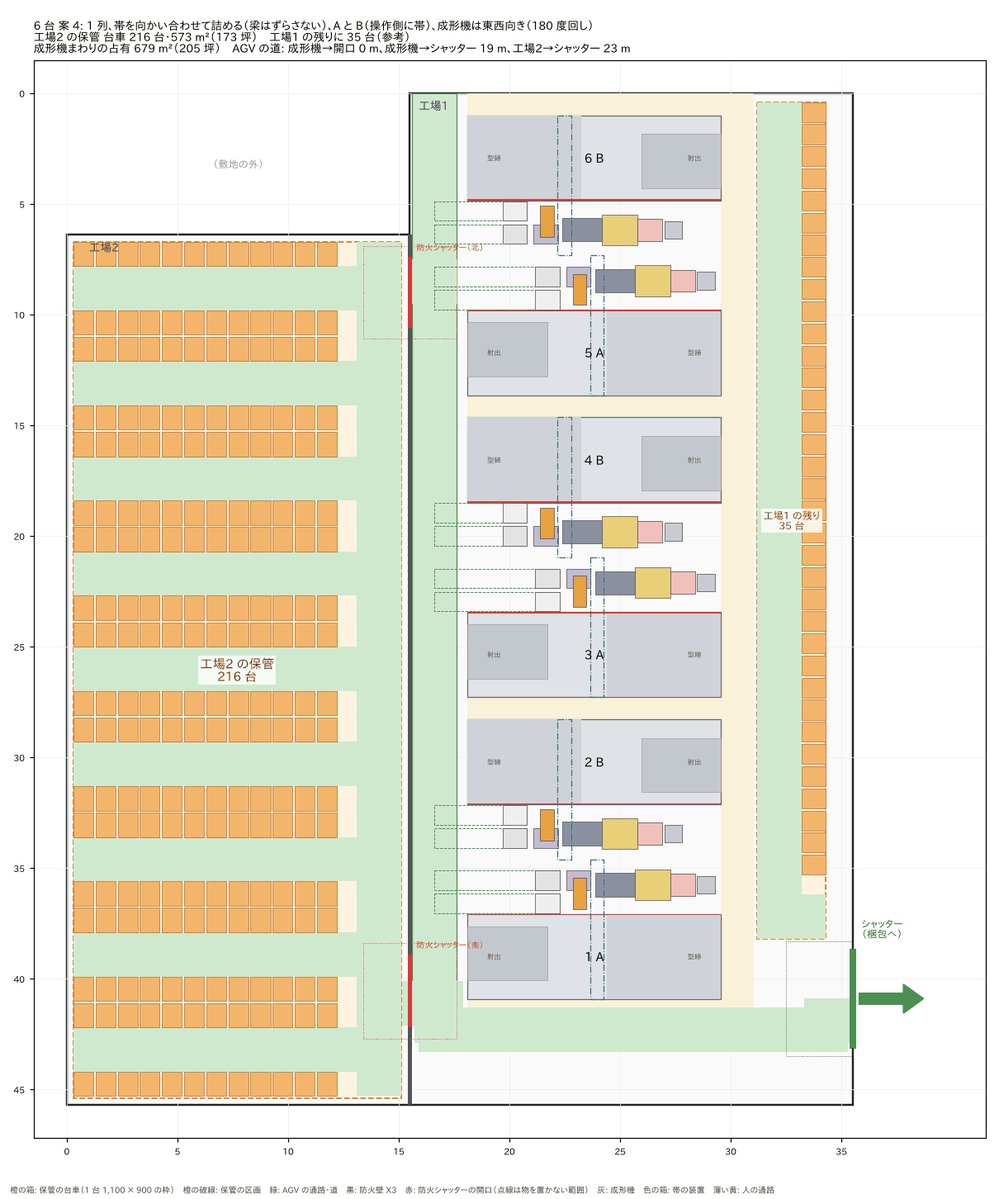
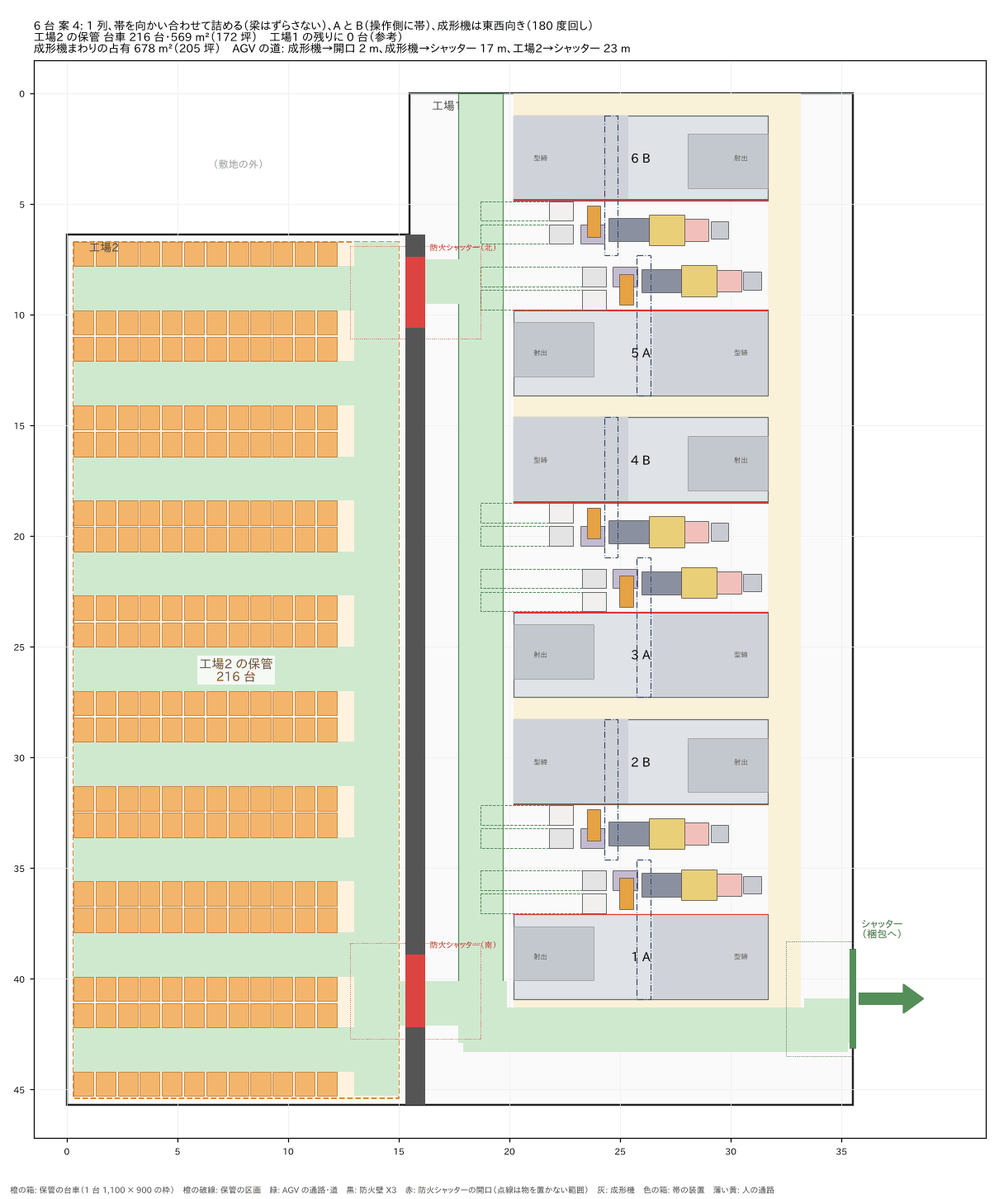
工場1 に 6 台の案: 防火壁の前提を 20261021-防火壁 にそろえて作り直す
壁と東側の柱をまとめて x 15.3〜16.2 m を置けない帯、防火シャッターの前は両側 2.5 m。
工場2 の保管は 216 台のまま、おすすめは C と D の案（案 2）。

Claude-Session: https://claude.ai/code/session_01Xqyfjj7x5UKCcMetuTjMEo

Changed region(s): [[0.3975, 0.062, 0.8256, 0.9298], [0.214, 0.5269, 0.2752, 0.5888], [0.3669, 0.0, 0.3975, 0.031]]

diff --git a/docs/layouts/20261021-工場1に6台/gen_f1.py b/docs/layouts/20261021-工場1に6台/gen_f1.py
@@ -30,11 +30,11 @@ from gen_site import SITE_W, SITE_H, NOTCH_X, NOTCH_Y, SHUTTER, GRID, AGV_CLEAR,
 from gen_storage import X, Y, NX, NY, rect_mask, site_mask, pack, largest_rect, WALL_MARGIN, APRON_R  # noqa: E402
 
 # ---- 仕切り（防火壁）と開口 ----
-WALL = (15400, 15600)                  # X3。厚さ 200 を仮定（中心は工場2 の幅 15.5 m の線）
-F1 = (WALL[1], 0, SITE_W, SITE_H)      # 工場1 の床 19.9 × 45.7 m
-F2 = (0, NOTCH_Y, WALL[0], SITE_H)     # 工場2 の床 15.4 × 39.3 m
+WALL = (15300, 16200)                  # X3。壁の厚みと東側に約 0.7 m 出る柱をまとめた置けない帯（../20261021-防火壁/ と同じ）
+F1 = (WALL[1], 0, SITE_W, SITE_H)      # 工場1 の床 19.3 × 45.7 m
+F2 = (0, NOTCH_Y, WALL[0], SITE_H)     # 工場2 の床 15.3 × 39.3 m
 OPENINGS = [('北', (7400, 10600)), ('南', (38900, 42200))]   # 防火シャッターの開口（工場1 の北壁からの y）
-OPEN_CLEAR = 2000                      # 開口の両側に物を置かない奥行（シャッターの降下と AGV の出入り）
+OPEN_CLEAR = 2500                      # 開口の両側に物を置かない奥行（シャッターの降下と AGV の出入り。../20261021-防火壁/ と同じ）
 OPEN_SIDE = 500                        # 同じく、開口の幅の上下に足す分
 N = 6
 H = AISLE / 2
@@ -137,10 +137,11 @@ def candidates():
                     if w > fw or hh > fh:
                         continue
                     tys = sorted(set(list(range(0, int(fh - hh) + 1, 1000)) + [fh - hh]))
-                    for tx in sorted({F1[0], F1[2] - w}):
+                    for tx in sorted(set(range(int(F1[0]), int(F1[2] - w), 500)) | {F1[2] - w}):
                         for ty in tys:
                             el = gs.transform(el0, rot, tx, ty)
-                            if all(in_rect(e[1], F1) for e in el if e[0] in gs.FIT_KINDS):
+                            if all(in_rect(e[1], F1) for e in el if e[0] in gs.FIT_KINDS) and not any(
+                                    gen.overlaps(e[1], a) for e in el if e[0] in ('machine', 'part', 'lane') for a in APRONS):
                                 res.append(dict(structure=sname, spec=spec, pattern=p, typeset=ts, rot=rot, tx=tx, ty=ty,
                                                 el=el, meta=meta, w=w, h=hh))
     return res
@@ -270,8 +271,11 @@ def evaluate(c, f2opts):
     return c
 
 
+DETOUR = 35000   # 成形機→開口と工場2→シャッターの合計がこれを超える置き方は、台車が多くても後ろに回す
+
+
 def key(c):
-    return (-c['carts2'], -c['carts1'], c['m_o'] + c['s_e'])
+    return (-c['carts2'], c['m_o'] + c['s_e'] > DETOUR, -c['carts1'], c['m_o'] + c['s_e'])
 
 
 def pick(cs):

diff --git a/docs/layouts/20261021-工場1に6台/README.md b/docs/layouts/20261021-工場1に6台/README.md
@@ -1,65 +1,76 @@
 # 工場1 に成形機 6 台、工場2 を製品の保管場所にする案（2026-10-21）
 
-工場1 と工場2 を分けて使う前提の検討。工場1 にだけ成形機を 6 台置き、工場2 をまるごと製品の保管場所（台車ごと置く）にする。[L 字の敷地の案](../20261021/README.md) と [保管場所を足した案](../20261021-保管場所/README.md) とは目的が違うので、別の資料にした（前の資料は変えていない）。
+工場1 と工場2 を分けて使う前提の検討。工場1 にだけ成形機を 6 台置き、工場2 をまるごと製品の保管場所（台車ごと置く）にする。[L 字の敷地の案](../20261021/README.md)、[保管場所を足した案](../20261021-保管場所/README.md)、[防火壁がある前提の案](../20261021-防火壁/README.md) とは目的が違うので、別の資料にした（ほかの資料は変えていない）。
 
-工場1 と工場2 の間の仕切り X3（防火壁）は、実在の壁として扱った。AGV が壁を越えるのは、壁にある 2 か所の防火シャッターの開口だけ。製品は成形機の帯の台車（ストッカー）ごと AGV で開口を通って工場2 へ運び、出荷のときは開口から工場1 を通って東の電動シャッター（梱包へ）へ出す。
+工場1 と工場2 の間の仕切り X3（防火壁）は実在の壁として扱い、壁の扱いは [防火壁がある前提の案](../20261021-防火壁/README.md) にそろえた。AGV が壁を越えるのは、壁にある 2 か所の防火シャッターの開口だけ。製品は成形機の帯の台車（ストッカー）ごと AGV で開口を通って工場2 へ運び、出荷のときは開口から工場1 を通って東の電動シャッター（梱包へ）へ出す。
 
-- 平面図: `6台_案{番号}.png`（番号は一覧の順）。敷地は外形線だけ。室内の図面を敷いた版は共有フォルダ（リポには入れない）。
+- 平面図: `6台_案{番号}.png`（番号は一覧の順）。敷地は外形線と防火壁だけ。室内の図面を敷いた版は共有フォルダ（リポには入れない）。
 - 一覧（9 案）: [一覧.csv](一覧.csv)
-- 作り方: [gen_f1.py](gen_f1.py)。`python3 gen_f1.py` で PNG と CSV を作り直す（matplotlib、scipy が要る。1 分ほど）。成形機の帯と組み方は `../20261021/`、台車の並べ方は `../20261021-保管場所/` のものをそのまま使う。
+- 作り方: [gen_f1.py](gen_f1.py)。`python3 gen_f1.py` で PNG と CSV を作り直す（matplotlib、scipy が要る。3 分ほど）。成形機の帯と組み方は `../20261021/`、台車の並べ方は `../20261021-保管場所/` のものをそのまま使う。
 
 ## おすすめ
 
 | | 案 | 工場2 の保管 | 工場1 の残り（参考） | 成形機まわり | 成形機→開口 | 工場2→シャッター | 理由 |
 |---|---|---|---|---|---|---|---|
-| おすすめ | [案 3](6台_案3.png) | 216 台・173 坪 | 47 台 | 200 坪 | 0 m | 21 m | C と D で操作側が空く。AGV の通路が防火壁ぎわを通り、2 つの開口の前をそのまま通る。南の開口から東のシャッターまで真っすぐ 1 本 |
-| 次点 | [案 1](6台_案1.png) | 216 台・173 坪 | 61 台 | 194 坪 | 0 m | 27 m | A と B で詰める。工場1 の残りに置ける台車がいちばん多い。代わりに操作盤の前を帯がふさぎ、出荷の道は成形機の南の端を回る |
-| 道が短い | [案 2](6台_案2.png) | 216 台・173 坪 | 59 台 | 193 坪 | 14 m | 21 m | 成形機を北に寄せ、AGV の通路を東の壁ぎわに。成形機からシャッターまで 6 m。工場2 へは南の開口 1 か所だけを使う |
+| おすすめ | [案 2](6台_案2.png) | 216 台・172 坪 | 36 台 | 199 坪 | 4 m | 21 m | C と D で操作側が空く。AGV の通路を防火壁の側に通し、北の開口へ 4 m、南の開口から東のシャッターまで真っすぐ 1 本 |
+| 次点 | [案 1](6台_案1.png) | 216 台・172 坪 | 47 台 | 192 坪 | 4 m | 21 m | 案 2 と同じ並べ方を A と B で詰める。工場1 の残りが 11 台多い。代わりに操作盤の前を帯がふさぐ |
+| 出荷が近い | [案 6](6台_案6.png) | 216 台・172 坪 | 57 台 | 194 坪 | 21 m | 27 m | AGV の通路を東の壁ぎわに。成形機からシャッターまで 1 m で、工場1 の残りがいちばん多い。工場2 へは南の開口を通り 21 m 走る |
 
-工場2 の保管は、どの案も同じ 216 台（173 坪）になった。工場2 には成形機を置かないので、工場1 の並べ方は工場2 の床に影響しない。差が出るのは、成形機の使い勝手、工場1 に残る床、AGV の道のりの 3 つだけ。
+工場2 の保管は、どの案も同じ 216 台（172 坪）になった。工場2 には成形機を置かないので、工場1 の並べ方は工場2 の床に影響しない。差が出るのは、成形機の使い勝手、工場1 に残る床、AGV の道のりの 3 つだけ。
+
+## 防火壁の前提をそろえた差（2026-10-21）
+
+最初の版は、壁の厚さを 200、防火シャッターの前を両側 2 m としていた。[防火壁がある前提の案](../20261021-防火壁/README.md) が図面から壁の東側に出る柱を拾っていたので、その値にそろえて作り直した。
+
+- 工場2 の保管は 216 台のまま。床は 15.4 → 15.3 m に狭まったが、台車の列の数は変わらない（区画の面積は 173 → 172 坪）。
+- おすすめは、前の案 3（C と D、通路が防火壁の側）と同じ積み方・型・向きを東へずらした、今の案 2。工場1 の残りは 47 → 36 台、成形機から開口までは 0 → 4 m。柱の帯（0.9 m）と開口の前 2.5 m を避けるため、列を東の壁に寄せ、通路が壁から 3.8 m 離れた。
+- 通路を壁にぴったり付けると、成形機の AGV の引込みが開口の前 2.5 m に入る。前の版の 0 m の案はなくなった。
+- 工場1 の幅は 19.9 → 19.3 m。2 列（南北向き 3＋3）が入らないのは同じ（21.1 m 要る）。
 
 ## 分かったこと
 
-- 工場1（幅 19.9 m）に 6 台が入るのは、成形機を東西向きにして南北に 1 列に積む形だけ。南北向きの 2 列（3＋3）は幅が 21.1 m 要り、1.2 m 足りない。
-- 1 列でも、同じ向きに積む形（長さ 45.2 m）は、南に出荷の道を通す余地が無く入らない。入るのは、帯を向かい合わせる、詰める、背中合わせの 4 つの積み方。
-- 工場2 の床（壁から 300 離して 14.8 × 38.7 m）には、台車 216 台が置ける。通路を東西に走らせ、通路をまとめる幹を防火壁ぎわに通すと、幹が 2 つの開口の前をそのまま通る。通路を南北に走らせても同じ 216 台なので、幹が開口の前を通る東西の形を載せた。
-- AGV の通路を防火壁ぎわに置く（案 1・3〜6）と、成形機から開口まで 0 m で、2 つの開口のどちらも使える。東の壁ぎわに置く（案 2・7〜9）と、成形機からシャッターまでは 1〜6 m と近いが、工場2 へは南の開口だけを使い、14〜21 m 走る。
-- 工場1 の残りの床（北の端、東の壁ぎわ、南の端）にも、参考で 25〜61 台置ける。
+- 工場1（柱の帯を除いて幅 19.3 m）に 6 台が入るのは、成形機を東西向きにして南北に 1 列に積む形だけ。南北向きの 2 列（3＋3）は幅が 21.1 m 要り、1.8 m 足りない。
+- 1 列でも、同じ向きに積む形（長さ 45.2 m）は、南に出荷の道を通す余地が無く入らない。入るのは、帯を向かい合わせる、詰める（梁をずらす・ずらさない）、背中合わせの 4 つの積み方。
+- 工場2 の床（壁から 300 離して 14.7 × 38.7 m）には、台車 216 台が置ける。通路を東西に走らせ、通路をまとめる幹を防火壁ぎわに通すと、幹が 2 つの開口の前をそのまま通る。通路を南北に走らせると、開口の前を空ける分 206〜208 台に減る。
+- AGV の通路を防火壁の側に置く（案 1〜5）と、成形機から開口まで 2〜4 m。東の壁ぎわに置く（案 6〜9）と、成形機からシャッターまでは 1 m だが、工場2 へは南の開口を通って 19〜21 m 走る。
+- 工場1 の残りの床（壁ぎわ、北の端、南の端）にも、参考で 0〜57 台置ける。
 
 ## 前提（依頼に無い値は推奨で決めた）
 
-- 敷地: 工場2 は x 0〜15.4 m、y 6.4〜45.7 m。工場1 は x 15.6〜35.5 m、y 0〜45.7 m。座標は工場1 の北壁が y 0（前の資料と同じ）。
-- 防火壁 X3: 厚さ 200 と仮定し、工場2 の幅 15.5 m の線を中心にした。
-- 防火シャッターの開口: 北 y 7.4〜10.6 m、南 y 38.9〜42.2 m（図面から読んだ値）。AGV（台車を載せて幅 2 m）は開口の中を通る。開口の両側 2 m、幅の上下 0.5 m には物を置かない（シャッターが閉まる所と、AGV が出入りする溜まり。平面図の赤い点線）。
+- 敷地: 工場2 は x 0〜15.3 m、y 6.4〜45.7 m。工場1 は x 16.2〜35.5 m、y 0〜45.7 m。座標は工場1 の北壁が y 0（前の資料と同じ）。
+- 防火壁 X3: 壁の厚みと、東側に約 0.7 m 出る柱をまとめて、x 15.3〜16.2 m を置けない帯とした（[防火壁がある前提の案](../20261021-防火壁/README.md) と同じ）。
+- 防火シャッターの開口: 北 y 7.4〜10.6 m、南 y 38.9〜42.2 m（幅 3.2 m）。AGV（台車を載せて幅 2 m）は開口の中を通る。開口の両側 2.5 m、幅の上下 0.5 m には、成形機・帯の装置・AGV の引込み・保管の台車を入れない（シャッターが閉まる所と、AGV が出入りする溜まり。平面図の赤い点線）。AGV の通路と人の通路は通ってよい。
 - 東の電動シャッター（y 38.8〜43.0 m）の前 3 m も空けた（前の資料と同じ）。
 - 成形機 1 台分の設備の帯（A〜D）と間隔は [L 字の敷地の案](../20261021/README.md) の前提のまま。台車は 1,100 × 900、隙間 100、保管の中の通路 2,000、壁から 300、台車 1 台ずつの奥行で並べ、どの台車も他を動かさずに出し入れできる（[保管場所の案](../20261021-保管場所/README.md) の前提のまま）。
-- AGV の道（幅 2 m、機械・装置から 200 離す）を 200 mm の升目で探し、次の 3 つがつながる案だけを残した: 成形機の AGV の通路から東のシャッター、成形機の通路から開口、工場2 の保管から開口を通って東のシャッター。道は台車を置いたあとで確かめた。
+- 成形機の列は、工場1 の中で東西に 0.5 m、南北に 1 m ずつ動かして総当たりした。AGV の道（幅 2 m、機械・装置から 200 離す）を 200 mm の升目で探し、次の 3 つがつながる案だけを残した: 成形機の AGV の通路から東のシャッター、成形機の通路から開口、工場2 の保管から開口を通って東のシャッター。道は台車を置いたあとで確かめた。
 - 工場1 の残りの保管は、上の道と開口・シャッターの前を空けたうえで、残った床に詰めた。工場2 の保管を主に比べ、工場1 の分は参考として別に数えた。
+- 同じ積み方・型・向きの中では、工場1 の残りの台車が多い置き方を選んだ。ただし、成形機→開口と工場2→シャッターの合計が 35 m を超える置き方（南の開口が使えず、北の開口から回る形）は後ろに回した。
 
 ## 数字の見方
 
 - 工場2 の保管: 置ける台車の台数と、区画（台車と区画の中の通路・幹）の面積。1 坪 ＝ 3.3058 m²。
 - 成形機まわり: 列・人の通路・AGV の通路と、成形機の通路から東のシャッターまでの道の面積（前の資料と同じ数え方）。
 - 成形機→開口: 成形機の AGV の通路から、近い方の防火シャッターの開口までの道のり。成形機→シャッター: 成形機の通路から東のシャッターまで。工場2→シャッター: 工場2 の保管の幹から、開口を通って東のシャッターまで。
+- 使う開口: 成形機の通路からいちばん近い開口（2 m 以内にもう一方があれば両方）。出荷はどの案も南の開口を通る。
 
 ## 一覧
 
 | 案 | 積み方 | 型 | AGV の通路 | 工場2 の保管 | 工場1 の残り | 成形機まわり | 成形機→開口 | 成形機→シャッター | 工場2→シャッター | 使う開口 |
 |---|---|---|---|---|---|---|---|---|---|---|
-| [1](6台_案1.png) | 帯を向かい合わせて詰める（梁をずらす） | A と B | 防火壁ぎわ | 216 台 | 61 台 | 194 坪 | 0 m | 21 m | 27 m | 北・南 |
-| [2](6台_案2.png) | 帯を向かい合わせて詰める（梁をずらす） | A と B | 東の壁ぎわ | 216 台 | 59 台 | 193 坪 | 14 m | 6 m | 21 m | 南 |
-| [3](6台_案3.png) | 帯を向かい合わせて詰める（梁をずらす） | C と D | 防火壁ぎわ | 216 台 | 47 台 | 200 坪 | 0 m | 19 m | 21 m | 北・南 |
-| [4](6台_案4.png) | 帯を向かい合わせて詰める（梁はずらさない） | A と B | 防火壁ぎわ | 216 台 | 35 台 | 205 坪 | 0 m | 19 m | 23 m | 北・南 |
-| [5](6台_案5.png) | 帯を向かい合わせ（帯の外の通路を共用） | A と B | 防火壁ぎわ | 216 台 | 35 台 | 215 坪 | 0 m | 21 m | 26 m | 北・南 |
-| [6](6台_案6.png) | 背中合わせ | A と B | 防火壁ぎわ | 216 台 | 35 台 | 215 坪 | 0 m | 21 m | 26 m | 北・南 |
-| [7](6台_案7.png) | 帯を向かい合わせて詰める（梁はずらさない） | A と B | 東の壁ぎわ | 216 台 | 25 台 | 206 坪 | 20 m | 1 m | 23 m | 南 |
-| [8](6台_案8.png) | 背中合わせ | A と B | 東の壁ぎわ | 216 台 | 25 台 | 215 坪 | 21 m | 1 m | 26 m | 南 |
+| [1](6台_案1.png) | 帯を向かい合わせて詰める（梁をずらす） | A と B | 防火壁の側 | 216 台 | 47 台 | 192 坪 | 4 m | 15 m | 21 m | 北 |
+| [2](6台_案2.png) | 帯を向かい合わせて詰める（梁をずらす） | C と D | 防火壁の側 | 216 台 | 36 台 | 199 坪 | 4 m | 14 m | 21 m | 北 |
+| [3](6台_案3.png) | 背中合わせ | A と B | 防火壁の側 | 216 台 | 25 台 | 213 坪 | 4 m | 16 m | 26 m | 北 |
+| [4](6台_案4.png) | 帯を向かい合わせて詰める（梁はずらさない） | A と B | 防火壁の側 | 216 台 | 0 台 | 205 坪 | 2 m | 17 m | 23 m | 北・南 |
+| [5](6台_案5.png) | 帯を向かい合わせ（帯の外の通路を共用） | A と B | 防火壁の側 | 216 台 | 0 台 | 214 坪 | 2 m | 19 m | 26 m | 北・南 |
+| [6](6台_案6.png) | 帯を向かい合わせて詰める（梁をずらす） | A と B | 東の壁ぎわ | 216 台 | 57 台 | 194 坪 | 21 m | 1 m | 27 m | 南 |
+| [7](6台_案7.png) | 帯を向かい合わせて詰める（梁はずらさない） | A と B | 東の壁ぎわ | 216 台 | 25 台 | 206 坪 | 19 m | 1 m | 23 m | 南 |
+| [8](6台_案8.png) | 背中合わせ | A と B | 東の壁ぎわ | 216 台 | 25 台 | 215 坪 | 20 m | 1 m | 26 m | 南 |
 | [9](6台_案9.png) | 帯を向かい合わせ（帯の外の通路を共用） | A と B | 東の壁ぎわ | 216 台 | 25 台 | 215 坪 | 21 m | 1 m | 26 m | 南 |
 
 ## 気になる点
 
 - 台車 1 台が工場2 を通るたびに、AGV は防火シャッターの開口を 2 回くぐる（入れるときと出荷のとき）。開口の中で AGV が止まらないこと、火災のときにシャッターが閉まる前に AGV を退かせる連動が要る。防火シャッターの下を常用の動線にしてよいかは、所轄の消防と建物の確認が要る。
-- 工場2 には人の通路を別に取っていない。保管の通路（幅 2 m）を人も歩く前提。避難の経路と、工場2 の出入り口（防火シャッター以外の扉）は図面で確かめていない。
-- 柱・クレーンの走行範囲・室内の間仕切りは入れていない。室内の図面では、工場1 の東の壁ぎわにクレーンの表示がある。工場1 の残りに置く台車は、そこと重なる。
-- 開口が 1 つだけの案（2・7〜9）では、その開口を AGV が双方向に通る。台数が増えると、開口の前で待ちが出る。
-- 案 1・2・4〜9 は、操作盤の前を帯がふさぐ（前の資料と同じ）。
+- 開口の幅は 3.2 m で、AGV（2 m）と人が同時に通るには狭い。工場2 には人の通路を別に取っていない。保管の通路（幅 2 m）を人も歩く前提。避難の経路と、工場2 の出入り口（防火シャッター以外の扉）は図面で確かめていない。
+- 柱は防火壁の上のものだけを帯として入れた。工場1・工場2 の中の柱、クレーンの走行範囲、室内の間仕切りは入れていない。室内の図面では、工場1 の東の壁ぎわにクレーンの表示がある。
+- 開口が 1 つだけの案（6〜9）では、その開口を AGV が双方向に通る。台数が増えると、開口の前で待ちが出る。
+- 案 2 以外は、操作盤の前を帯がふさぐ（前の資料と同じ）。

diff --git a/DECISIONS.md b/DECISIONS.md
@@ -304,9 +304,9 @@
 ## 2026-10-21 工場1 に 6 台、工場2 を製品の保管場所にする
 
 - ショスタコの依頼「工場1 の方にだけ成形機を 6 台、工場2 の方に製品ストックの場所」。目的が違うので、前の 2 つの資料とは別に `docs/layouts/20261021-工場1に6台/` に作った（同じ依頼「別々の資料にしてほしい」）。
-- 工場1 と工場2 を分けて使うので、仕切り X3（防火壁）は実在の壁として扱い、AGV は防火シャッターの開口（北 y 7.4〜10.6 m、南 38.9〜42.2 m）だけを通す。壁の厚さは 200 と仮定した。
-- 開口の両側 2 m と幅の上下 0.5 m には物を置かない（シャッターの閉まる所と AGV の溜まり）。工場2 の保管は台車を 1 台ずつの奥行で並べ、保管場所の前提（1,100 × 900、隙間 100、通路 2,000、壁から 300）は前の資料のまま。
-- 工場1 の残りの床にも台車を詰めて数えたが、比べる主は工場2 の台数とし、工場1 の分は参考として別の列にした。おすすめは、工場2 の台数がどの案も同じ 216 台になったので、操作側が空いて開口とシャッターへの道が真っすぐな案 3（C と D）を選んだ。いずれも推奨で決定（2026-10-13 の包括の承認）。
+- 工場1 と工場2 を分けて使うので、仕切り X3（防火壁）は実在の壁として扱い、AGV は防火シャッターの開口（北 y 7.4〜10.6 m、南 38.9〜42.2 m）だけを通す。壁の扱いは `docs/layouts/20261021-防火壁/` にそろえた（壁と東側の柱をまとめて x 15.3〜16.2 m を置けない帯、開口の両側 2.5 m に成形機・帯・引込み・台車を入れない）。最初は壁厚 200・両側 2 m で作ったが、同じ建物の資料で前提が食い違うのを避け、図面から柱を拾った向こうの値に合わせた（コーディネーターの指摘）。
+- 工場2 の保管は台車を 1 台ずつの奥行で並べ、保管場所の前提（1,100 × 900、隙間 100、通路 2,000、壁から 300）は前の資料のまま。
+- 工場1 の残りの床にも台車を詰めて数えたが、比べる主は工場2 の台数とし、工場1 の分は参考として別の列にした。おすすめは、工場2 の台数がどの案も同じ 216 台になったので、操作側が空いて開口とシャッターへの道が真っすぐな案 2（C と D）を選んだ。成形機→開口と工場2→シャッターの合計が 35 m を超える置き方は、工場1 に台車が多く残っても後ろに回す。いずれも推奨で決定（2026-10-13 の包括の承認）。
 
 ## 2026-10-21 防火壁がある前提のレイアウト案
 

diff --git a/logs/2026-10.md b/logs/2026-10.md
@@ -433,3 +433,8 @@
 - 壁の位置と防火シャッター（W3200）は室内図面から読んだ。`gen_storage.py` の升目の関数を差し替えて、壁は開口だけ通れるようにした。
 - 分かったこと: 工場1 は最大 6 台（1 列 7 台は 0.9 m 足りない）、工場2 は最大 4 台（東西向きは 0.15 m 足りない）で、合わせて 10 台まで。5・6 台は工場1 だけに収まり、防火シャッターを通らない。11 台は反操作側の通路を 0.5 m に詰めると入る（参考図）。
 
+- 防火壁の前提を `docs/layouts/20261021-防火壁/` にそろえて作り直した（壁と柱の帯 0.9 m、開口の前 2.5 m）。工場2 の保管は 216 台のまま、おすすめは C と D の案（前の案 3 → 案 2）で、工場1 の残りは 47 → 36 台、成形機から開口まで 0 → 4 m。
+
+### 記憶候補
+
+- 同じ建物について並行して資料を作るときは、壁・柱・開口などの共通の前提を、先に出した側の値に合わせるか、片方のスクリプトから読む。別々に仮定したら食い違い、作り直しになった（2026-10-21）。
